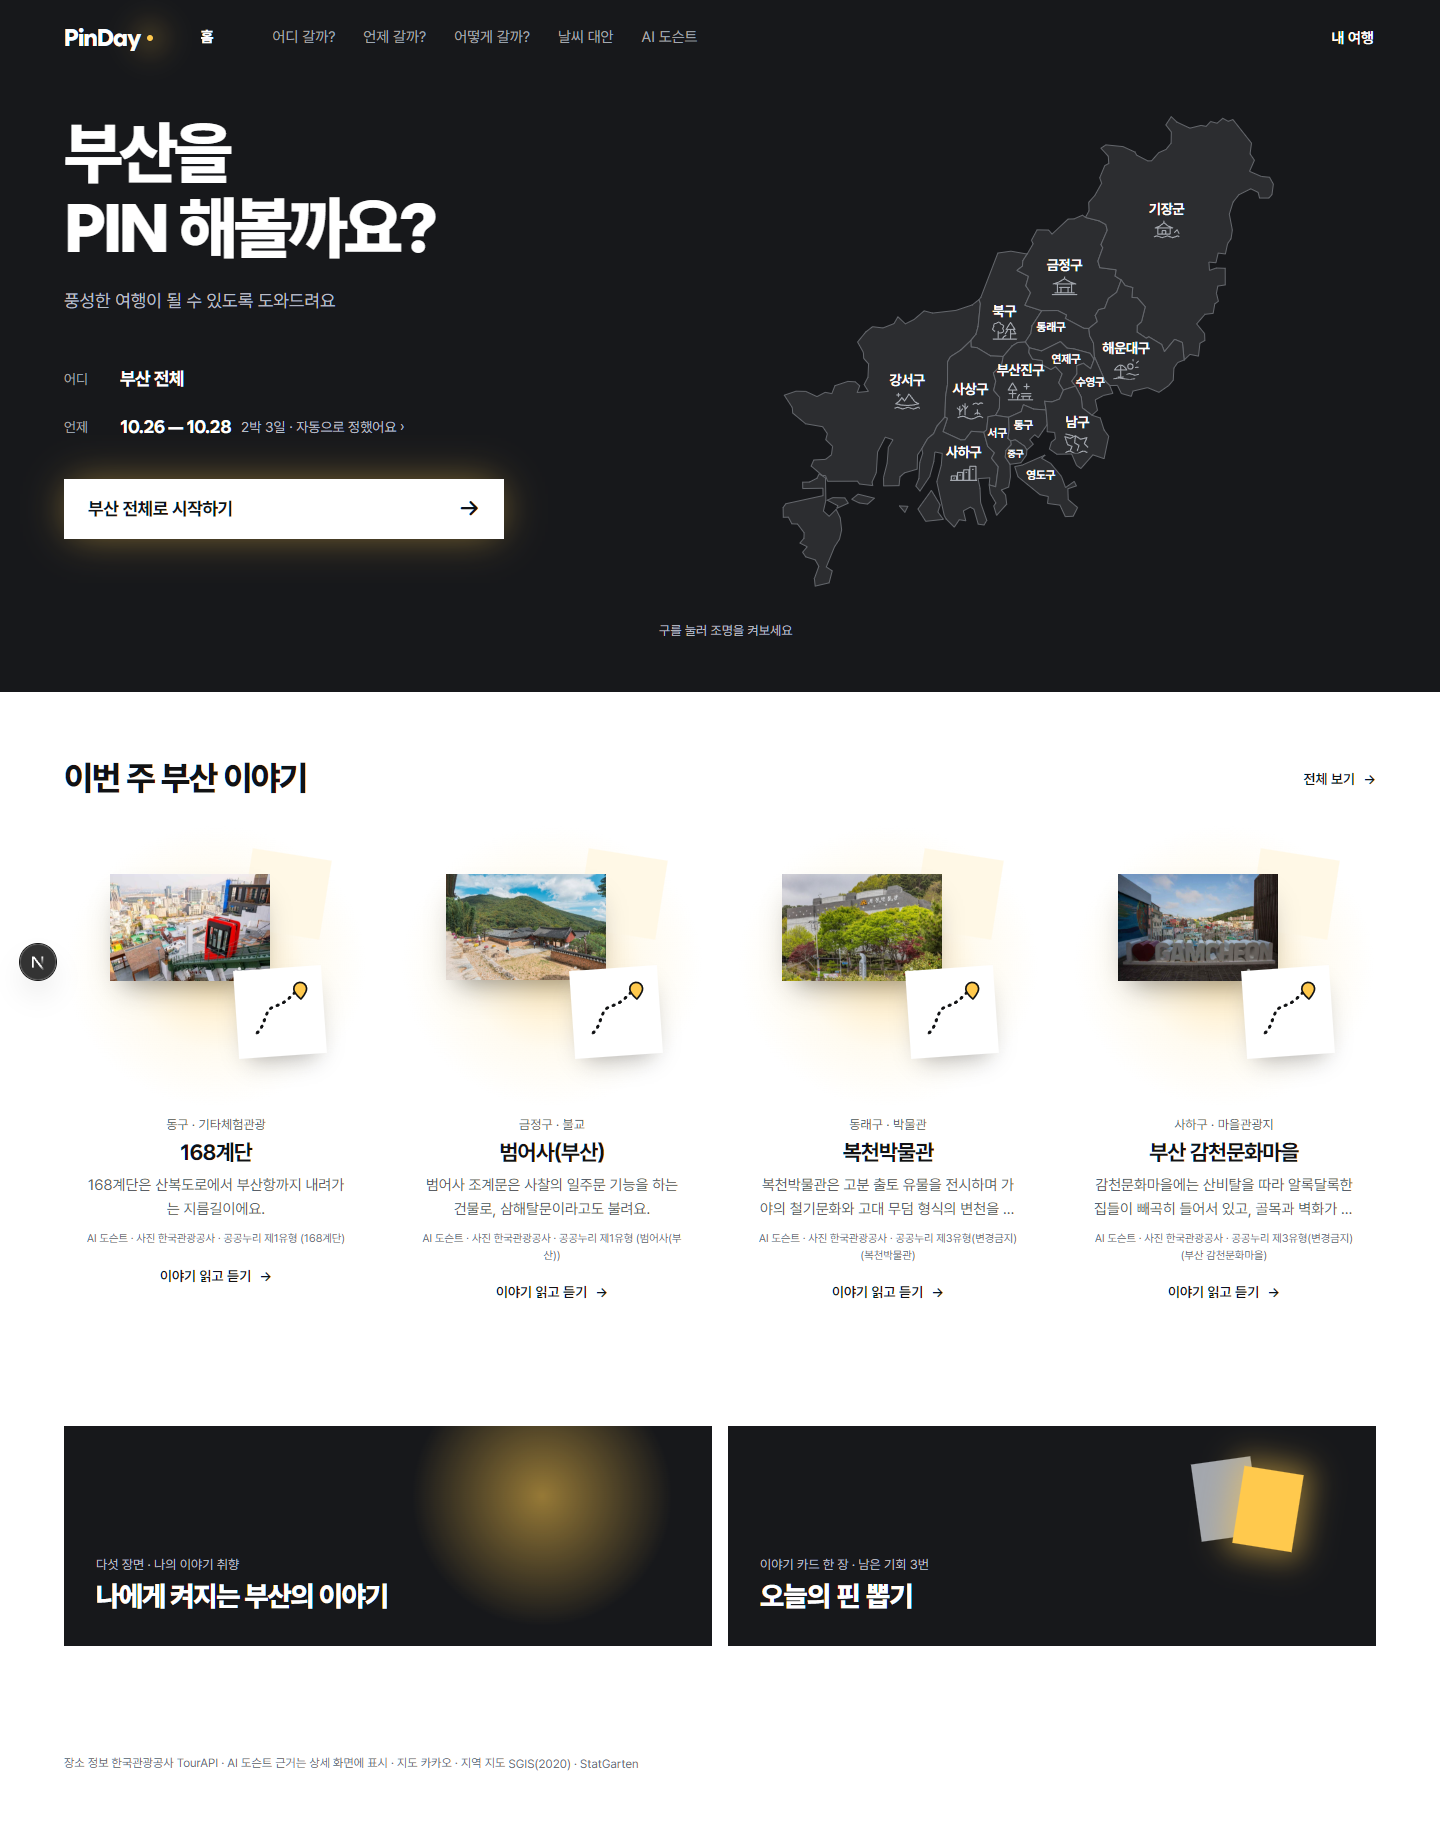
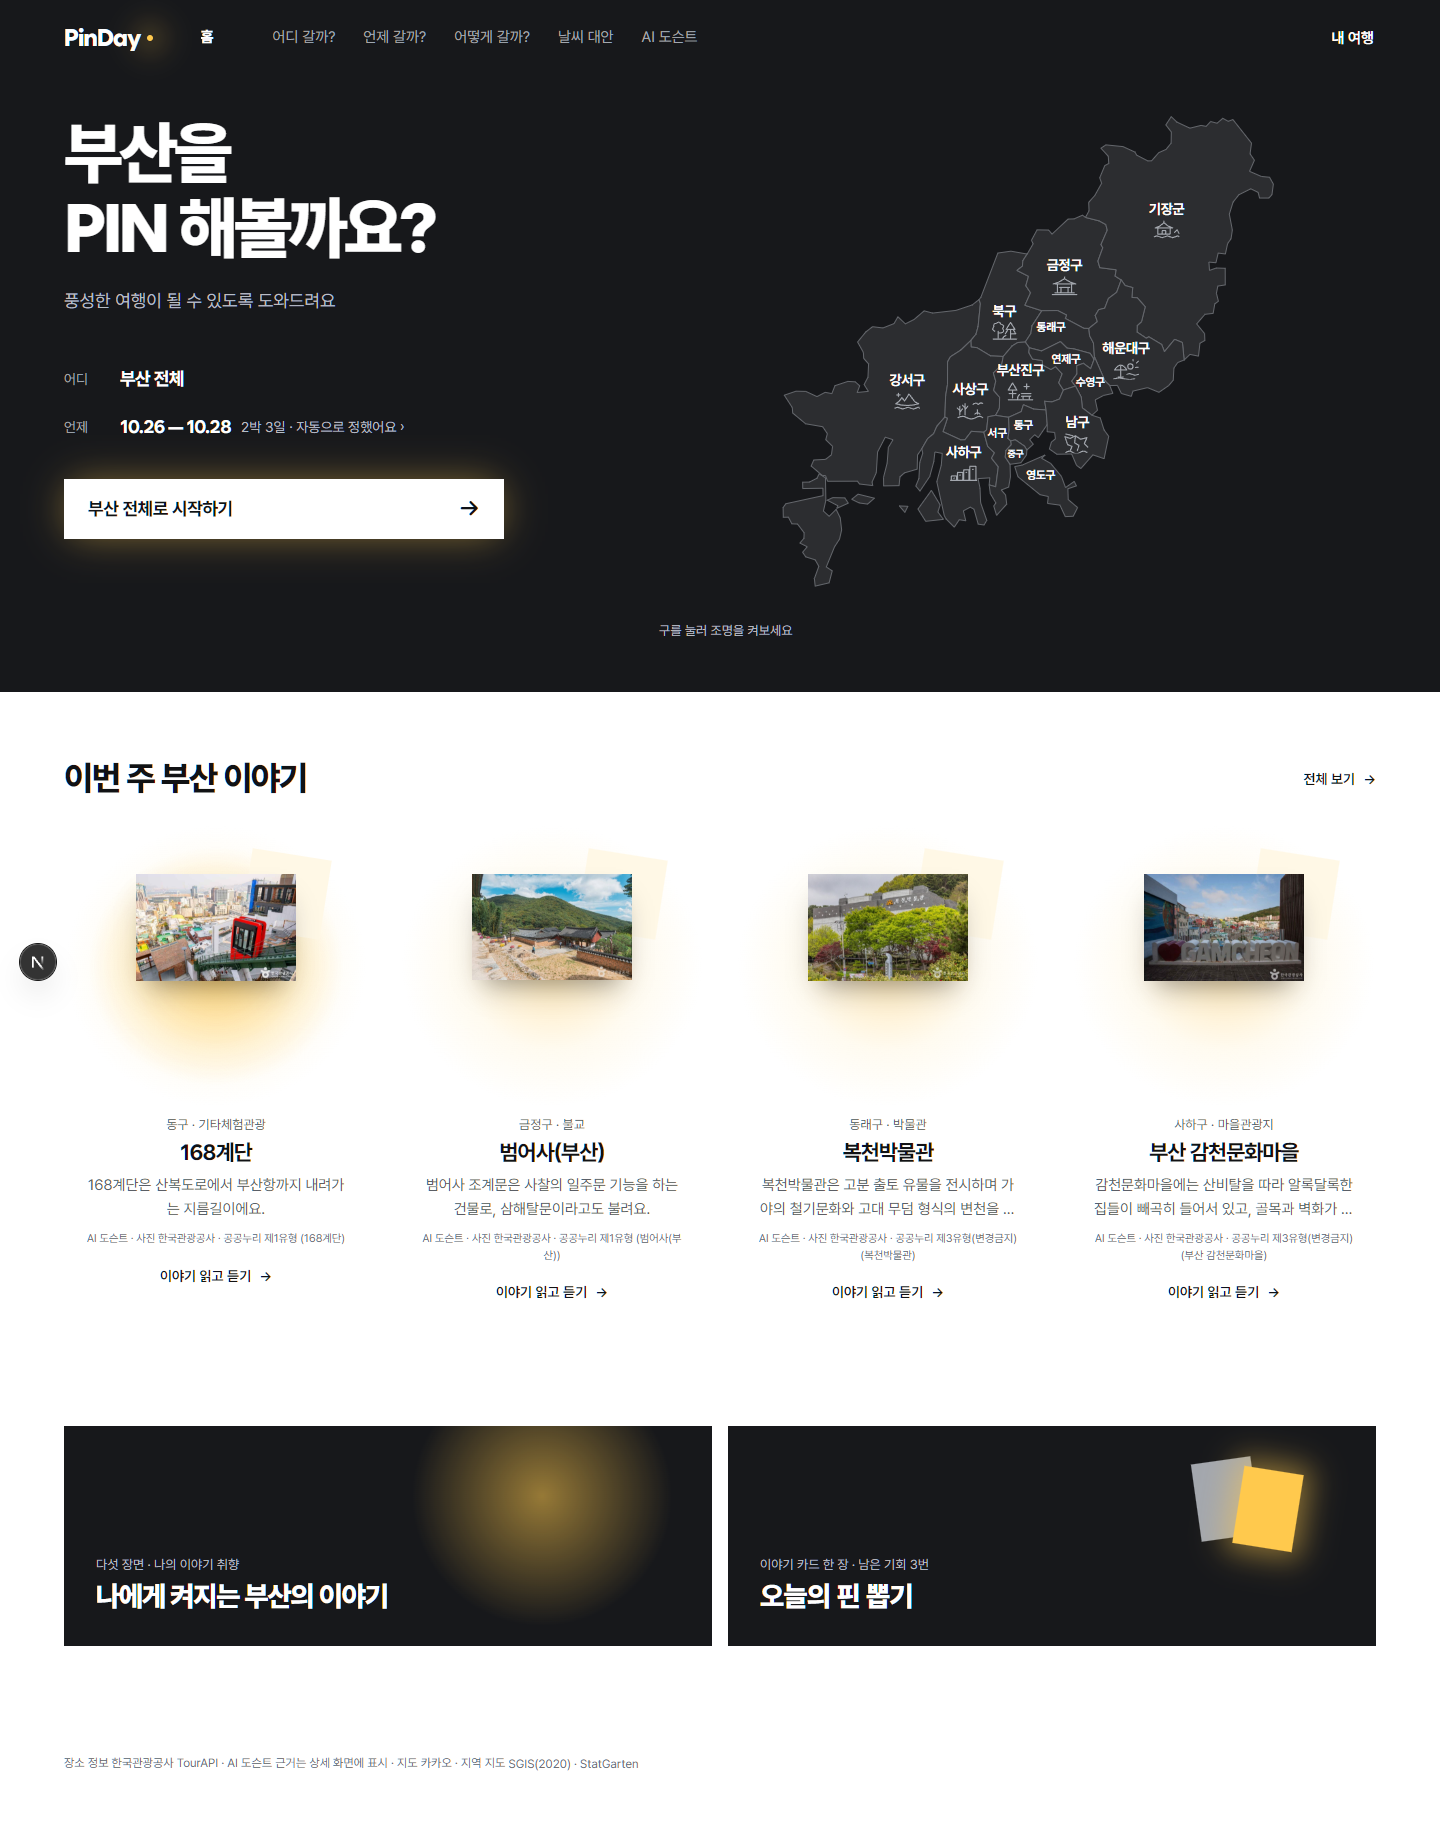
feat(home): 이야기 썸네일 장식 제거와 호버 조명 추가

diff --git a/src/app/_home/StoryShelf.tsx b/src/app/_home/StoryShelf.tsx
@@ -4,7 +4,7 @@ import type { StoryCard } from "@/lib/server/home";
 import { regionName } from "./regions";
 
 // 홈 이야기 카드 (기획서 6-1, 시안 C). 조명 원 안에 사진을 건다.
-// 사진은 공공누리 3유형(변경금지)이 있어 자르거나 기울이지 않고 원래 비율 그대로 보여준다. 기울이는 건 장식 조각만.
+// 사진은 공공누리 3유형(변경금지)이 있어 원래 비율 그대로 보여준다. 호버는 사진 뒤 조명만 바꾼다.
 export function StoryShelf({ heading, stories }: { heading: string; stories: StoryCard[] }) {
   return (
     <section aria-labelledby="story-heading" className="flex flex-col gap-2 lg:gap-6">
@@ -55,6 +55,12 @@ function StoryArt({ story }: { story: StoryCard }) {
             "radial-gradient(closest-side, color-mix(in srgb, var(--color-light) 45%, transparent) 0%, color-mix(in srgb, var(--color-lit) 60%, transparent) 60%, transparent 100%)",
         }}
       />
+      <div
+        aria-hidden="true"
+        data-story-glow=""
+        className="absolute inset-0 rounded-full opacity-0 transition-opacity duration-300 group-hover:opacity-100 group-focus-visible:opacity-100 motion-reduce:transition-none"
+        style={{ background: "radial-gradient(closest-side, color-mix(in srgb, var(--color-light) 65%, transparent), transparent 85%)" }}
+      />
       <div aria-hidden="true" className="absolute top-7 left-41 size-18 rotate-9 bg-lit lg:left-45 lg:size-20" />
       {story.photo ? (
         <Image
@@ -63,17 +69,11 @@ function StoryArt({ story }: { story: StoryCard }) {
           width={240}
           height={180}
           unoptimized
-          className="absolute top-12 left-10 h-auto w-36 shadow-photo lg:left-11 lg:w-40"
+          className="absolute top-12 left-1/2 h-auto w-36 -translate-x-1/2 shadow-photo lg:w-40"
         />
       ) : (
         <div aria-hidden="true" className="absolute top-10 left-14 h-37.5 w-29.5 -rotate-5 bg-lit" />
       )}
-      <div aria-hidden="true" className="absolute top-31.5 left-38 flex size-20 -rotate-4 items-center justify-center bg-bg shadow-paper lg:top-35.5 lg:left-42.5 lg:size-22">
-        <svg viewBox="0 0 50 50" className="size-14.5 text-ink lg:size-16">
-          <path d="M6 40 C14 34 12 22 22 20 S34 12 42 8" fill="none" stroke="currentColor" strokeWidth="2.4" strokeDasharray="1 4.5" strokeLinecap="round" />
-          <path d="M42 3C39.2 3 37 5.2 37 7.9 37 11.6 42 16 42 16s5-4.4 5-8.1C47 5.2 44.8 3 42 3z" fill="var(--color-light)" stroke="currentColor" strokeWidth="1.3" />
-        </svg>
-      </div>
     </div>
   );
 }

diff --git a/docs/HANDOFF.md b/docs/HANDOFF.md
@@ -1,6 +1,6 @@
 # HANDOFF — 지금 상태
 
-## 홈 높이 축소·이야기 카드 도슨트 연결 (2026-10-25, 최신)
+## 홈 이야기 썸네일 장식 제거·호버 조명 (2026-10-25, 최신)
 - 현재 브랜치 **`feat/home-map-illustrations`**, 기준 `origin/main` = `bd455d3`(배포 인계 문서 병합 이후). 사용자가 홈의 남은 명소 그림 완성과 지도 일러스트 수정을 요청했다.
 - **사용자 최종 방향: 첨부 참고처럼 부산의 실제 해안선·구·군 경계를 살린 지도.** 임의의 다각형으로 만든 퍼즐형 윤곽은 사용자가 거부했다. 작은 구를 키우려고 윤곽·상대 크기를 변형하지 않는다. 이전 블록형 지도 결정보다 이 지시가 우선한다.
 - `swcho/korea-maps`의 SGIS **2020년** 부산 경계 SVG에서 16개 path를 그대로 추출해 사용했다. 바다·섬·구별 크기 유지. 출처·고정 커밋·MIT 원문은 `data/maps/README.md`, `data/maps/LICENSE`, 경계는 `busan-boundaries.json`. 첨부 상업 지도 이미지는 복사하지 않았다.
@@ -11,8 +11,10 @@
 - 홈 높이 축소: 확대 조작·안내를 빼고 지도 출처는 기존 홈 푸터로 이동, PC 지도 최대 폭과 상단/이야기 앞 여백을 줄였다. 390px에서 상단 높이 1,022→857px, 이야기 시작 1,094→903px. 1440px에서 상단 1,022→692px, 이야기 시작 1,134→756px(아무 지역도 선택하지 않은 상태 기준).
 - 사용자가 ‘이번 주 부산 이야기’가 클릭되지 않는 이유를 물었고 ‘다른 메뉴와 이어지도록’ 지시했다. **홈 이야기 카드를 승인된 AI 도슨트로 교체**했다. 사진·제목·설명 전체 클릭 → 같은 장소 `/docent/{id}`, ‘전체 보기’ → `/docent`. 자동 음성 재생 없음. 기존 부산시 원문 카드 목록은 홈에서 쓰지 않으며 `data/stories` 자료는 삭제하지 않았다.
 - 홈 데이터 `src/lib/server/home.ts`: 공개 승인·자동 검사 통과한 도슨트 6곳 중 사진이 있고 서로 다른 구의 4곳을 임시로 노출. 지역 선택 시 그 구의 승인 해설만 표시. 해설이 없으면 준비 중 안내 + 선택 지역 `/explore` 링크. 미검수 글을 채워 넣거나 지역을 자동 확장하지 않는다. ‘이번 주’ 수동 선정 기준은 여전히 미정.
+- 최신 사용자 요청: 이야기 썸네일 앞의 지도/핀 흰 종이 장식을 제거하고 사진을 가운데로 정렬했다. 사진 뒤 노란 조명이 호버·키보드 포커스에서 0.3초 동안 밝아지는 효과를 추가했다. 사진 자체의 크기·비율·색·각도는 바꾸지 않으며 움직임 줄이기에서는 조명이 즉시 전환된다. 뒤쪽 장식 종이와 원형 조명은 유지했다.
 - 검증: **테스트 150개·빌드 통과**, 린트 오류 0·기존 취향 음성 경고 1건. Chrome 390/1440에서 기존 16개 경계 조작·핀/물결·조명·저장 검사 통과. 확대/드롭다운 없음·지도 내부 스크롤 없음·페이지 가로 넘침 없음 확인. 홈 4개 카드의 실제 상세 응답/장소 일치, 카드 클릭 → 도슨트 상세 → 목록 이동, 해설 없는 지역의 탐색 링크 확인. 경로/날씨 요청 0건.
 - 재현 `node scripts/qa-home-map.mjs`. 화면 `docs/design/home-map/map-{default,detail,selected,all,focus,drop,light,ripple}-{390,1440}.png`, `home-stories-{390,1440}.png`. `map-zoom-*`는 확대 기능이 있던 과거 기록이다. 구현은 홈 화면 폴더와 홈 전용 서버 데이터/테스트에 한정.
+- 호버 최신 사진 `docs/design/home-map/home-story-hover-{390,1440}.png`. 390/1440에서 썸네일 SVG 장식 없음·호버 전/후 조명 변화·키보드 조명·사진 크기/비율 유지·움직임 줄이기 즉시 전환·기존 도슨트 이동 검증 통과. 테스트 150개·빌드 통과, 린트 기존 경고 1건.
 - 남은 것: 사용자 최종 검토, PR 병합 후 배포 확인. 배포 사이트에는 아직 이번 변경을 반영하지 않았다. 홈 첫 문구·이번 주 수동 선정 기준·공통 메뉴 정리는 이번 범위 밖이다.
 
 ## Vercel 첫 배포·지도 표시 확인 (2026-10-25)

diff --git a/docs/design/README.md b/docs/design/README.md
@@ -1,6 +1,7 @@
 # 디자인 탐색 기록
 
 ## 홈 실제 경계 지도 (2026-10-25, 최신)
+- 이야기 카드 최신 수정: 앞쪽 지도/핀 흰 종이 장식을 빼고 사진 가운데 정렬. 호버/키보드 포커스 때 사진 뒤 조명이 밝아지는 효과만 추가해 원본 사진 비율·색·각도를 유지한다. `home-story-hover-*` 참고.
 - 최신 피드백: 확대 버튼·지도 내부 스크롤 제거, PC 지도 크기와 홈 상단/이야기 앞 여백 축소. 홈 이야기 카드는 승인 도슨트로 교체하여 카드 전체 → 같은 장소 상세, 전체 보기 → 도슨트 목록. 해설 없는 지역은 준비 중 안내와 장소 탐색 연결. `home-stories-*`와 최신 `map-*` 참고, `map-zoom-*`는 과거 기록이다.
 - 추가 피드백: 클릭의 흰 사각 테두리를 제거. 핀을 구 이름 위 가운데로 옮기고 크기를 두 배로 키웠다. 수직으로 툭 떨어진 뒤 두 겹 물결이 퍼지는 모션. 최신 캡처 `map-ripple-*`, 기존 캡처 갱신.
 - 후속 사용자 지시: 작은 구에 아이콘을 억지로 넣지 않고 이름만 남긴다(현재 넓은 9개 구만 그림). 드롭다운은 제거. 경계 직접 키보드 선택·확대 유지. 클릭 시 핀 낙하·튕김·착지 파문 추가, 마우스/터치를 따라오는 노란 조명을 지도 표면까지 강화했다. `map-drop-*`, `map-light-*`와 기존 캡처가 최신 화면이다. 아래 이름 선택·확대 시 작은 구 그림 기록보다 이번 지시가 우선한다.

diff --git a/docs/DECISIONS.md b/docs/DECISIONS.md
@@ -178,3 +178,4 @@
 ## 홈 이야기 카드 메뉴 연결 (기존 부산시 원문 카드 결정보다 우선)
 - 2026-10-25 사용자는 원문/해설 구분 대신 ‘다른 메뉴와 이어질 수 있도록’ 요청했다. 홈 카드의 사진·제목·설명을 누르면 **같은 장소의 AI 도슨트 상세**, ‘전체 보기’는 AI 도슨트 목록으로 연결한다. 듣기는 상세 화면에서 사용자가 눌러 시작한다.
 - 2026-10-25 이를 위해 홈 카드 데이터는 공개 승인·자동 검사 통과한 도슨트만 사용한다. 초기 ‘이번 주’는 사진이 있고 서로 다른 구의 최대 4곳을 고른 임시 목록이다. 지역 선택 시 그 지역의 공개 해설만 표시하며, 없으면 준비 중 안내와 선택 지역의 장소 탐색 링크를 제공한다. 승인 해설이 없는 원문 카드를 억지로 다른 장소 해설에 연결하지 않는다. 기존 `data/stories` 자료는 보존한다.
+- 2026-10-25 사용자 요청: 썸네일 앞 지도·핀 장식을 제거하고 호버 인터랙션 추가. 앞쪽 흰 종이 장식을 빼고 사진을 가운데 정렬한다. 호버·키보드 포커스에 사진 뒤 노란 조명만 밝아지게 하며 사진은 확대·자르기·기울이기·색 변경 없이 원래 비율을 유지한다. 움직임 줄이기는 즉시 전환.

diff --git a/docs/HOME_QA.md b/docs/HOME_QA.md
@@ -129,3 +129,9 @@ Chrome 개발 서버와 배포용 서버에서 390px·1440px 확인:
 - 북구/기장군처럼 승인 해설이 없는 지역은 안내와 `/explore` 링크를 표시하며 지역은 유지한다. 미검수 해설 공개·자동 음성 재생·외부 원문 이동을 추가하지 않았다.
 - 홈 데이터 기존 테스트를 승인 해설/동일 장소 링크 검사로 갱신. 테스트 150개·린트 오류 0(기존 경고 1건)·빌드 통과. 경로/날씨 요청 0건.
 - 최신 캡처 `docs/design/home-map/home-stories-{390,1440}.png` 및 `map-*` 갱신. `map-zoom-*`는 확대가 있던 과거 기록이다.
+
+### 최신 검증 — 이야기 썸네일 장식 제거·호버 조명
+
+- 앞쪽 흰 지도/핀 종이와 SVG 장식 제거, 사진 가운데 정렬. 뒤쪽 장식과 원형 조명 유지.
+- Chrome 390/1440에서 카드 호버 전/후 조명 opacity 0→1, 키보드 포커스에서도 같은 효과 확인. 전후 사진 크기·비율 동일, 움직임 줄이기에서는 transition-property가 none으로 즉시 전환된다.
+- 캡처 `docs/design/home-map/home-story-hover-{390,1440}.png`. 도슨트 상세·목록 이동과 기존 지도 검사도 통과. 테스트 150개·빌드 통과, 린트 기존 경고 1건.
